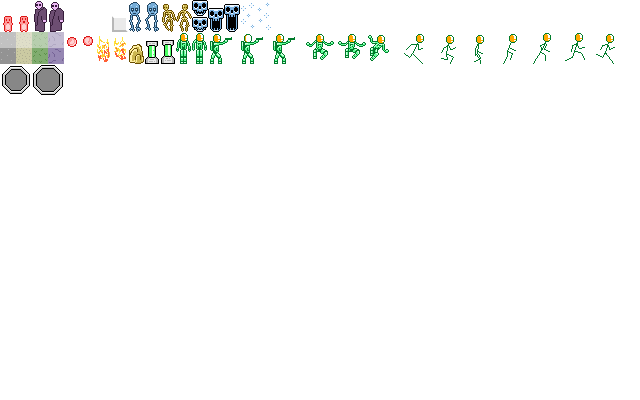
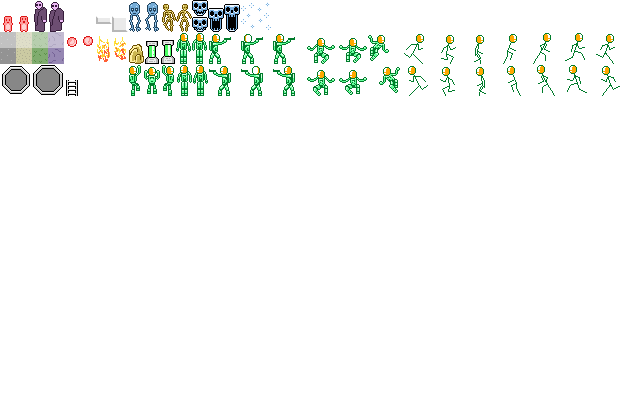
cleaned up movement and sprites a bit more

diff --git a/entities.py b/entities.py
@@ -97,7 +97,7 @@ class Actor(Entity):
         self.is_left_walled = False
         self.is_right_walled = False
         self.max_speed = (10, 20)
-        self.jump_height = 64 + 16
+        self.jump_height = 64 + 32
         
         self.vel = [0, 0]
     
@@ -126,34 +126,37 @@ class Actor(Entity):
         
 class Player(Actor):
     def __init__(self, x, y):
-        Actor.__init__(self, x, y, 16, 64)
+        Actor.__init__(self, x, y, 16, 48)
         self.speed = 5
         
         self.max_health = 50
         self.health = 50
         
-        #self.rope = None
-        #self.is_launching_from_rope = False
-     
+        self.facing_right = True
+        self.max_slide_speed = 1.5
+    
     def sprite(self):
+        direction = self.facing_right
         if self.is_grounded:
             if abs(self.vel[0]) > 1:
-                return images.PLAYER_RUN
+                return images.PLAYER_RUN if direction else images.PLAYER_RUN_LEFT
             else:
                 return images.PLAYER_IDLE
-        elif self.is_left_walled:
-            return images.PLAYER_WALLSLIDE
+        elif self.is_left_walled or self.is_right_walled:
+            return images.PLAYER_WALLSLIDE if direction else images.PLAYER_WALLSLIDE_LEFT
         else:
-            return images.PLAYER_AIR
+            return images.PLAYER_AIR if direction else images.PLAYER_AIR_LEFT
         
         
     def sprite_offset(self):
         spr = self.sprite()
         w = self.get_rect().width
         h = self.get_rect().height
-        res = [(w - spr[0].width)/2, (h - spr[0].height)/2]
+        res = [(w - spr[0].width)/2, (h - spr[0].height)/2 - (64 - h)/2]
         if spr is images.PLAYER_WALLSLIDE:
             res[0] += 12 # needs changing if sprite is redrawn or player resized
+        elif spr is images.PLAYER_WALLSLIDE_LEFT:
+            res[0] -= 12
         return res
         
     def draw(self, screen, offset=(0,0), modifier=None):
@@ -163,6 +166,10 @@ class Player(Actor):
         self.is_grounded = world.is_touching_wall(self, (0, 1))
         self.is_left_walled = world.is_touching_wall(self, (-1, 0))
         self.is_right_walled = world.is_touching_wall(self, (1, 0))    
+        if self.is_left_walled or self.vel[0] > 0:
+            self.facing_right = True
+        if self.is_right_walled or self.vel[0] < 0:
+            self.facing_right = False
         
     def update(self, tick_counter, input_state, world):
         self._update_status_tags(world)
@@ -197,73 +204,13 @@ class Player(Actor):
             elif self.is_right_walled:
                 self.vel[1] = self.get_jump_speed()
                 self.vel[0] = -self.speed
+                
+        if self.is_left_walled or self.is_right_walled:
+            if self.vel[1] > self.max_slide_speed:
+                self.vel[1] = cool_math.tend_towards(self.max_slide_speed, self.vel[1], 2)
 
         self.apply_gravity()
         self.apply_physics()
-        #self._update_rope(tick_counter, input_state, world)
-    
-    def _update_position(self, world):
-        #if self.rope == None:
-            # no rope, easy
-            self.apply_physics()
-        #else:
-        #    # oh boy
-        #    start_xy = (self.x, self.y)
-        #    new_xy = (self.x + self.vel[0], self.y + self.vel[1])
-        #    new_rect = pygame.Rect(new_xy[0], new_xy[1], self.rect.width, self.rect.height)
-        #    uncollided = world.uncollide_rect(new_rect)
-        #    uncollided_center = (uncollided[0]+new_rect.width/2, uncollided[1]+new_rect.height/2)
-        #    horz_change = uncollided[0] != new_rect.x
-        #    vert_change = uncollided[1] != new_rect.y
-        #    rope_pivot = self.rope.get_point(0)
-        #    rope_r = self.rope.max_length
-        #    
-        #    if cool_math.dist(uncollided_center, rope_pivot) <= rope_r:
-        #        # we good, ignore rope
-        #        self.set_x(uncollided[0] if horz_change else new_xy[0])
-        #        self.set_y(uncollided[1] if vert_change else new_xy[1])
-        #    elif rope_r == 0:
-        #        pass
-        #    else:
-        #        # rope is overstretched
-        #        rope_v = cool_math.sub(uncollided_center, rope_pivot)
-        #        rope_v = cool_math.set_length(rope_v, rope_r)
-        #        new_center = cool_math.add(rope_pivot, rope_v)
-        #        
-        #        rope_dir = cool_math.normalize(rope_v)
-        #        correction = cool_math.sub(new_center, uncollided_center)
-        #        rope_component = cool_math.component(self.vel, rope_dir)
-        #        
-        #        if cool_math.same_direction(self.vel, rope_dir):
-        #            # nuking velocity in the direction of the rope
-        #            new_vel = cool_math.sub(self.vel, rope_component)
-        #            # fudge in some conservation of energy
-        #            y_correction = correction[1]
-        #            if y_correction < 0:
-        #                # add speed if moving down, else reduce speed
-        #                mult = 1 if new_vel[1] < 0 else -1
-        #                new_vel = cool_math.extend(new_vel, mult*y_correction / 5)
-         #           self.vel[0] = new_vel[0]
-         #           self.vel[1] = new_vel[1]
-         #           
-         #       self.set_center(*new_center)
-            
-    #def _update_rope(self, tick_counter, input_state, world):
-    #    if input_state.mouse_was_pressed():
-    #        if self.rope is not None:
-    #            self.rope = None
-    #            if not self.is_grounded:
-    #                self.is_launching_from_rope = True
-    #        else:
-    #            pos = world.to_world_pos(input_state.mouse_pos())
-    #            self.rope = Rope(pos, self.center())
-    #        
-    #    if self.rope is not None:
-    #        self.rope.set_point(-1, self.center())
-    #        self.rope.update(tick_counter, input_state, world)
-    #        p = self.rope.get_point(-1)
-    #        self.set_center_x(p[0])
-    #        self.set_center_y(p[1])
         
     def sprite_modifier(self):
         return "normal"

diff --git a/images.py b/images.py
@@ -35,16 +35,20 @@ ENERGY_TANK = [r(9,2,1,2), r(10,2,1,2)]
 ROCK = [r(6,2,1,2)]
 
 PLAYER_IDLE = [R(176,32,16,32), R(192,32,16,32)]
-PLAYER_GUN = [R(208,32,24,32), R(240,32,24,32)]
+PLAYER_GUN = [R(208+i*32,32,24,32) for i in range(0, 3)]
+PLAYER_GUN_LEFT = [R(208+i*32,64,24,32) for i in range(0, 3)]
 PLAYER_AIR = [R(304,32,32,32), R(336,32,32,32)]
+PLAYER_AIR_LEFT = [R(304,64,32,32), R(336,64,32,32)]
 PLAYER_WALLSLIDE = [R(368,32,24,32)]
+PLAYER_WALLSLIDE_LEFT = [R(376,64,24,32)] 
 PLAYER_RUN = [R(400+32*i,32,32,32) for i in range(0, 6)] # TODO - make 7+
+PLAYER_RUN_LEFT = [R(400+32*i,64,32,32) for i in range(0, 6)] # TODO - make 7+
+PLAYER_LADDER = [R(128,64,16,32), R(144,64,16,32),R(160,64,16,32),R(144,64,16,32)]
 
 STONE_GROUND = [r(0,2,1,1)]
 SAND_GROUND = [r(1,2,1,1)]
 GRASS_GROUND = [r(2,2,1,1)]
 PURPLE_GROUND = [r(3,2,1,1)]
-
 
 def draw_animated_sprite(screen, dest_rect, sprite_rects, modifier="normal"):
     frame = (tick_cnt // TICKS_PER_FRAME ) % len(sprite_rects)
